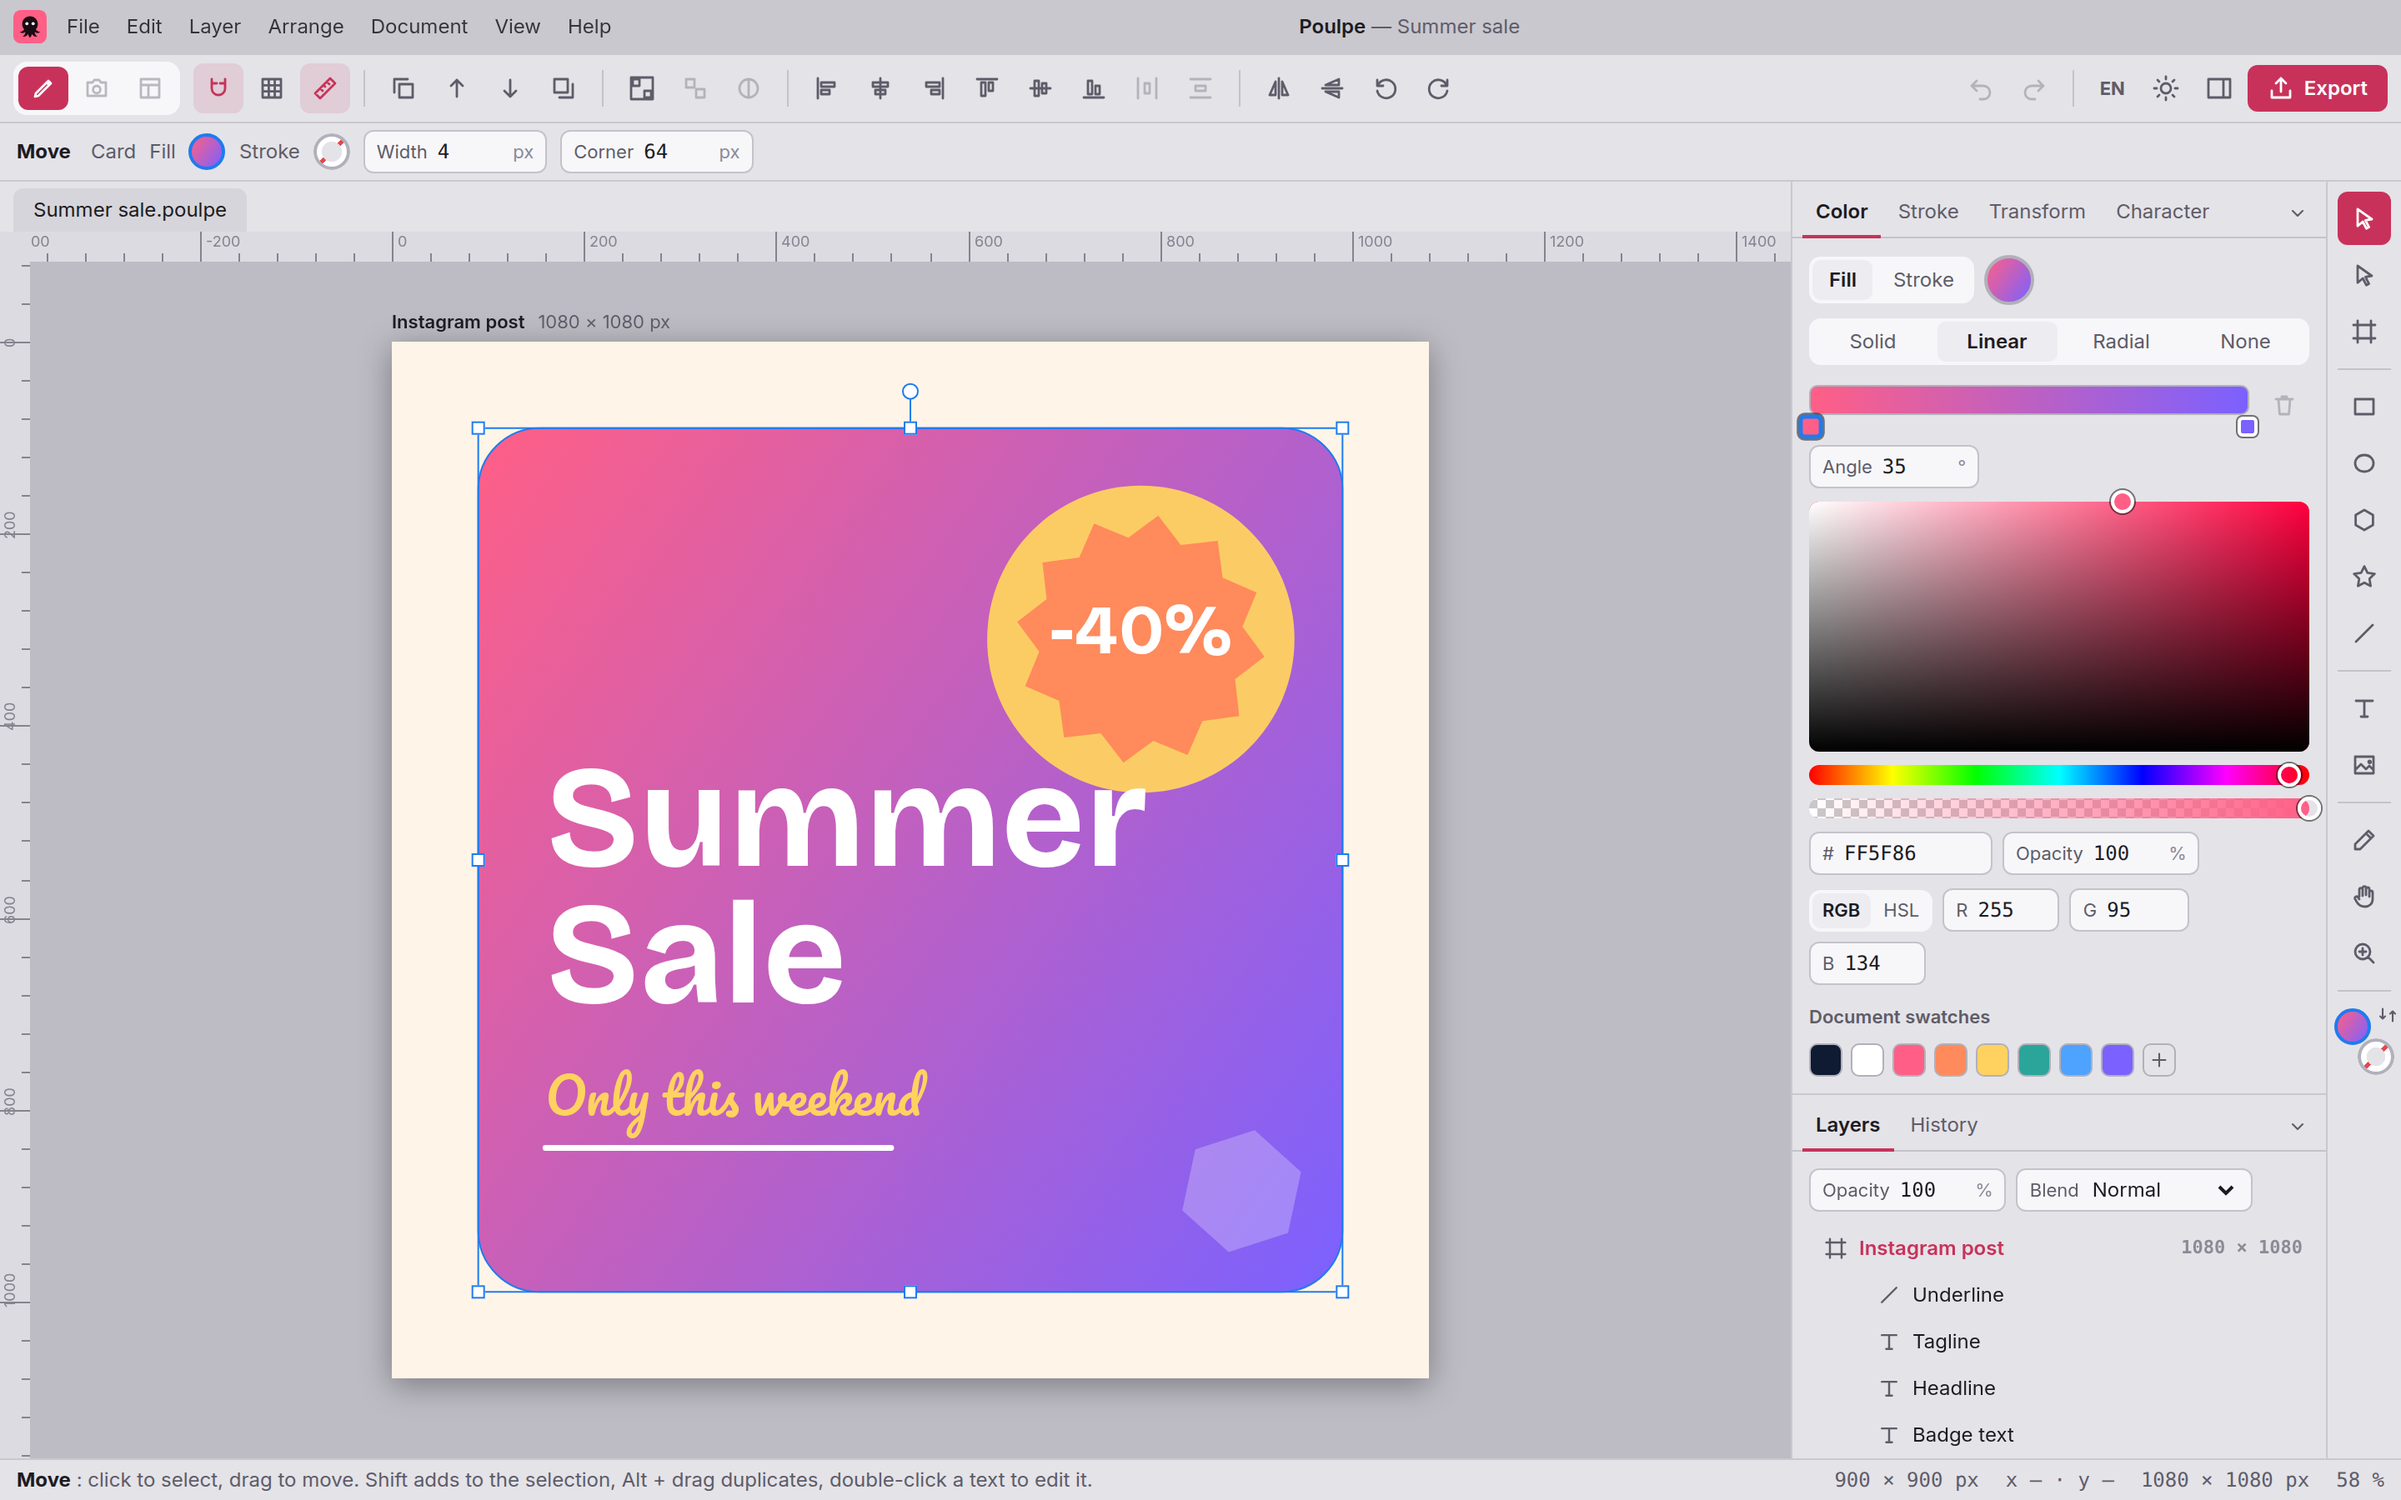
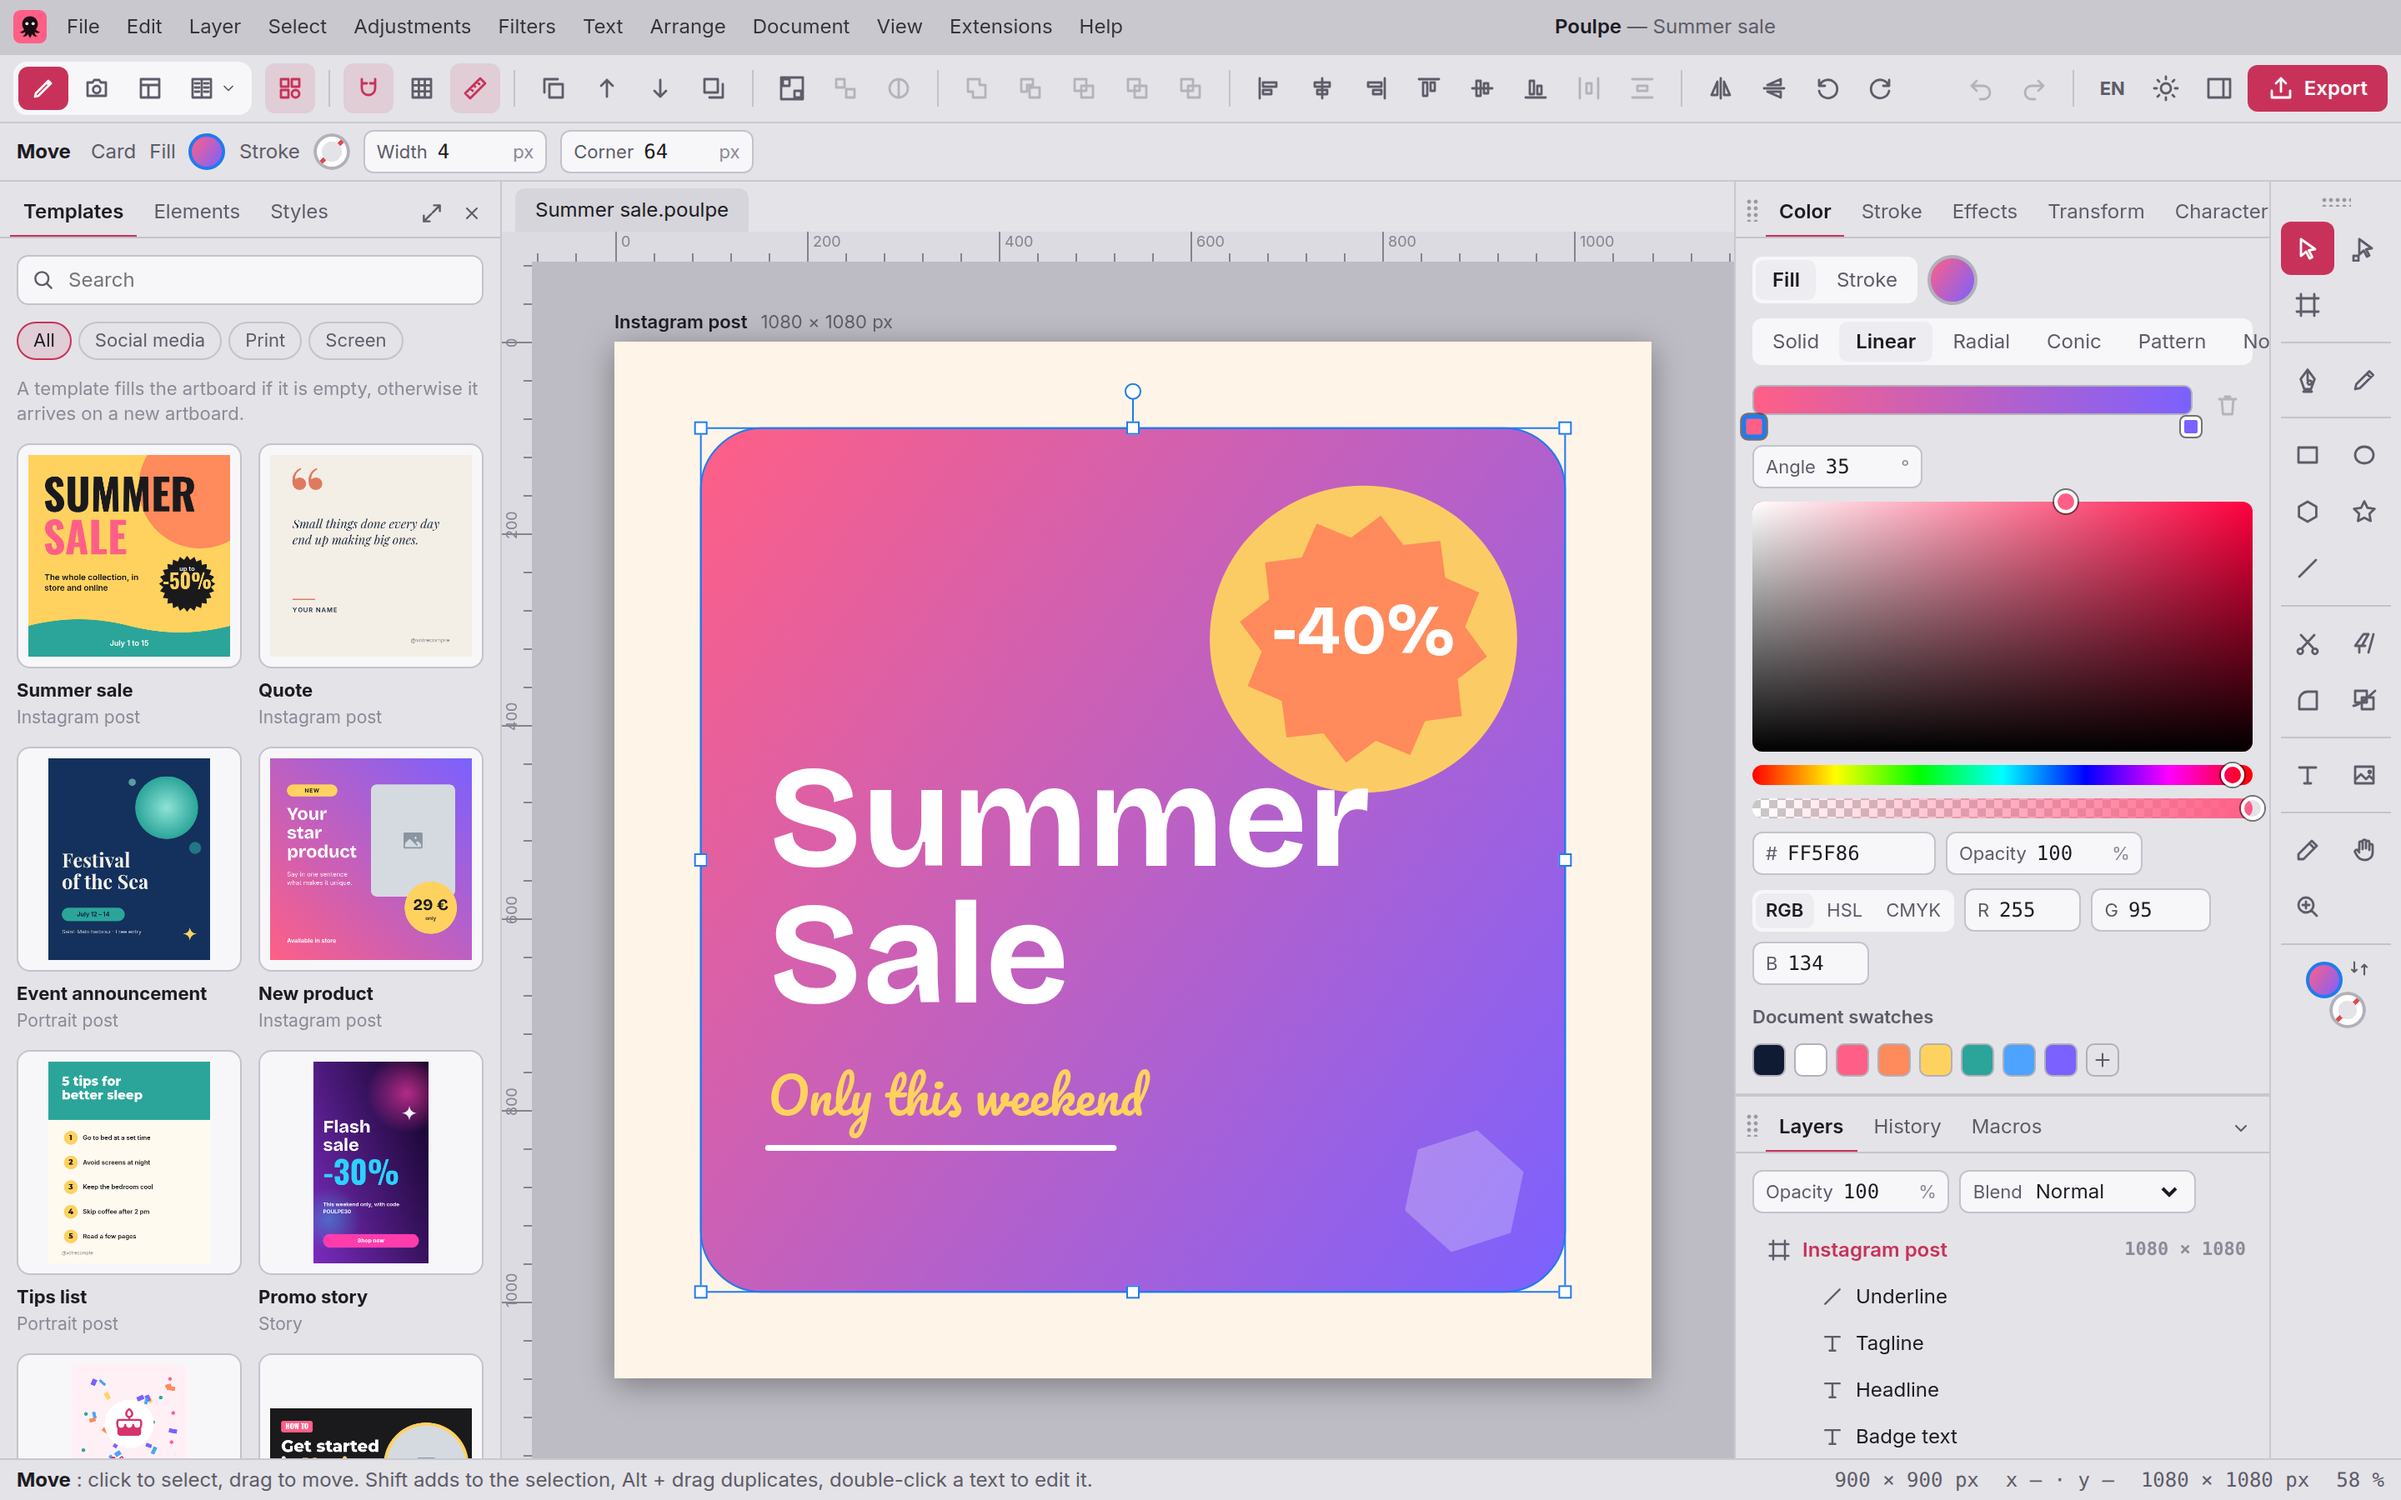
Page d'accueil : nouveaux visuels pris dans la version 1.0.0
Toutes les captures et la bannière refaites dans l'interface actuelle, plus
deux nouvelles : espaces de travail personnalisés, extensions et macros.
Uniquement des polices libres.

Claude-Session: https://claude.ai/code/session_01VusDLULkmcvbihgmZmNLYJ

diff --git a/README.md b/README.md
@@ -62,7 +62,7 @@ L'appli n'est pas encore signée : au premier lancement, Windows et macOS affich
   </tr>
   <tr>
     <td width="50%"><img src="docs/images/mise-en-page.png" alt="La Persona Mise en page : panneau Pages avec pages maîtres et miniatures"></td>
-    <td width="50%"><img src="docs/images/editeur-clair-anglais.png" alt="L'éditeur en thème clair et en anglais, avec un dégradé linéaire sur une carte"></td>
+    <td width="50%"><img src="docs/images/editeur-clair-anglais.png" alt="L'éditeur en thème clair et en anglais, avec un dégradé linéaire sur une carte « Summer Sale »"></td>
   </tr>
   <tr>
     <td align="center">Mise en page sur plusieurs pages</td>
@@ -75,6 +75,14 @@ L'appli n'est pas encore signée : au premier lancement, Windows et macOS affich
   <tr>
     <td align="center">Vectoriser une image en un clic</td>
     <td align="center">Panneaux flottants, comme dans Photoshop</td>
+  </tr>
+  <tr>
+    <td width="50%"><img src="docs/images/espace-de-travail.png" alt="La fenêtre « Nouvel espace de travail » : nom, type (vectoriel, pixel, présentation), outils et panneaux affichés"></td>
+    <td width="50%"><img src="docs/images/extensions.png" alt="Trois rosaces dessinées par une extension, le menu Extensions ouvert et l'onglet Macros du Studio"></td>
+  </tr>
+  <tr>
+    <td align="center">Vos propres espaces de travail, comme dans Affinity</td>
+    <td align="center">Extensions et macros</td>
   </tr>
 </table>
 
